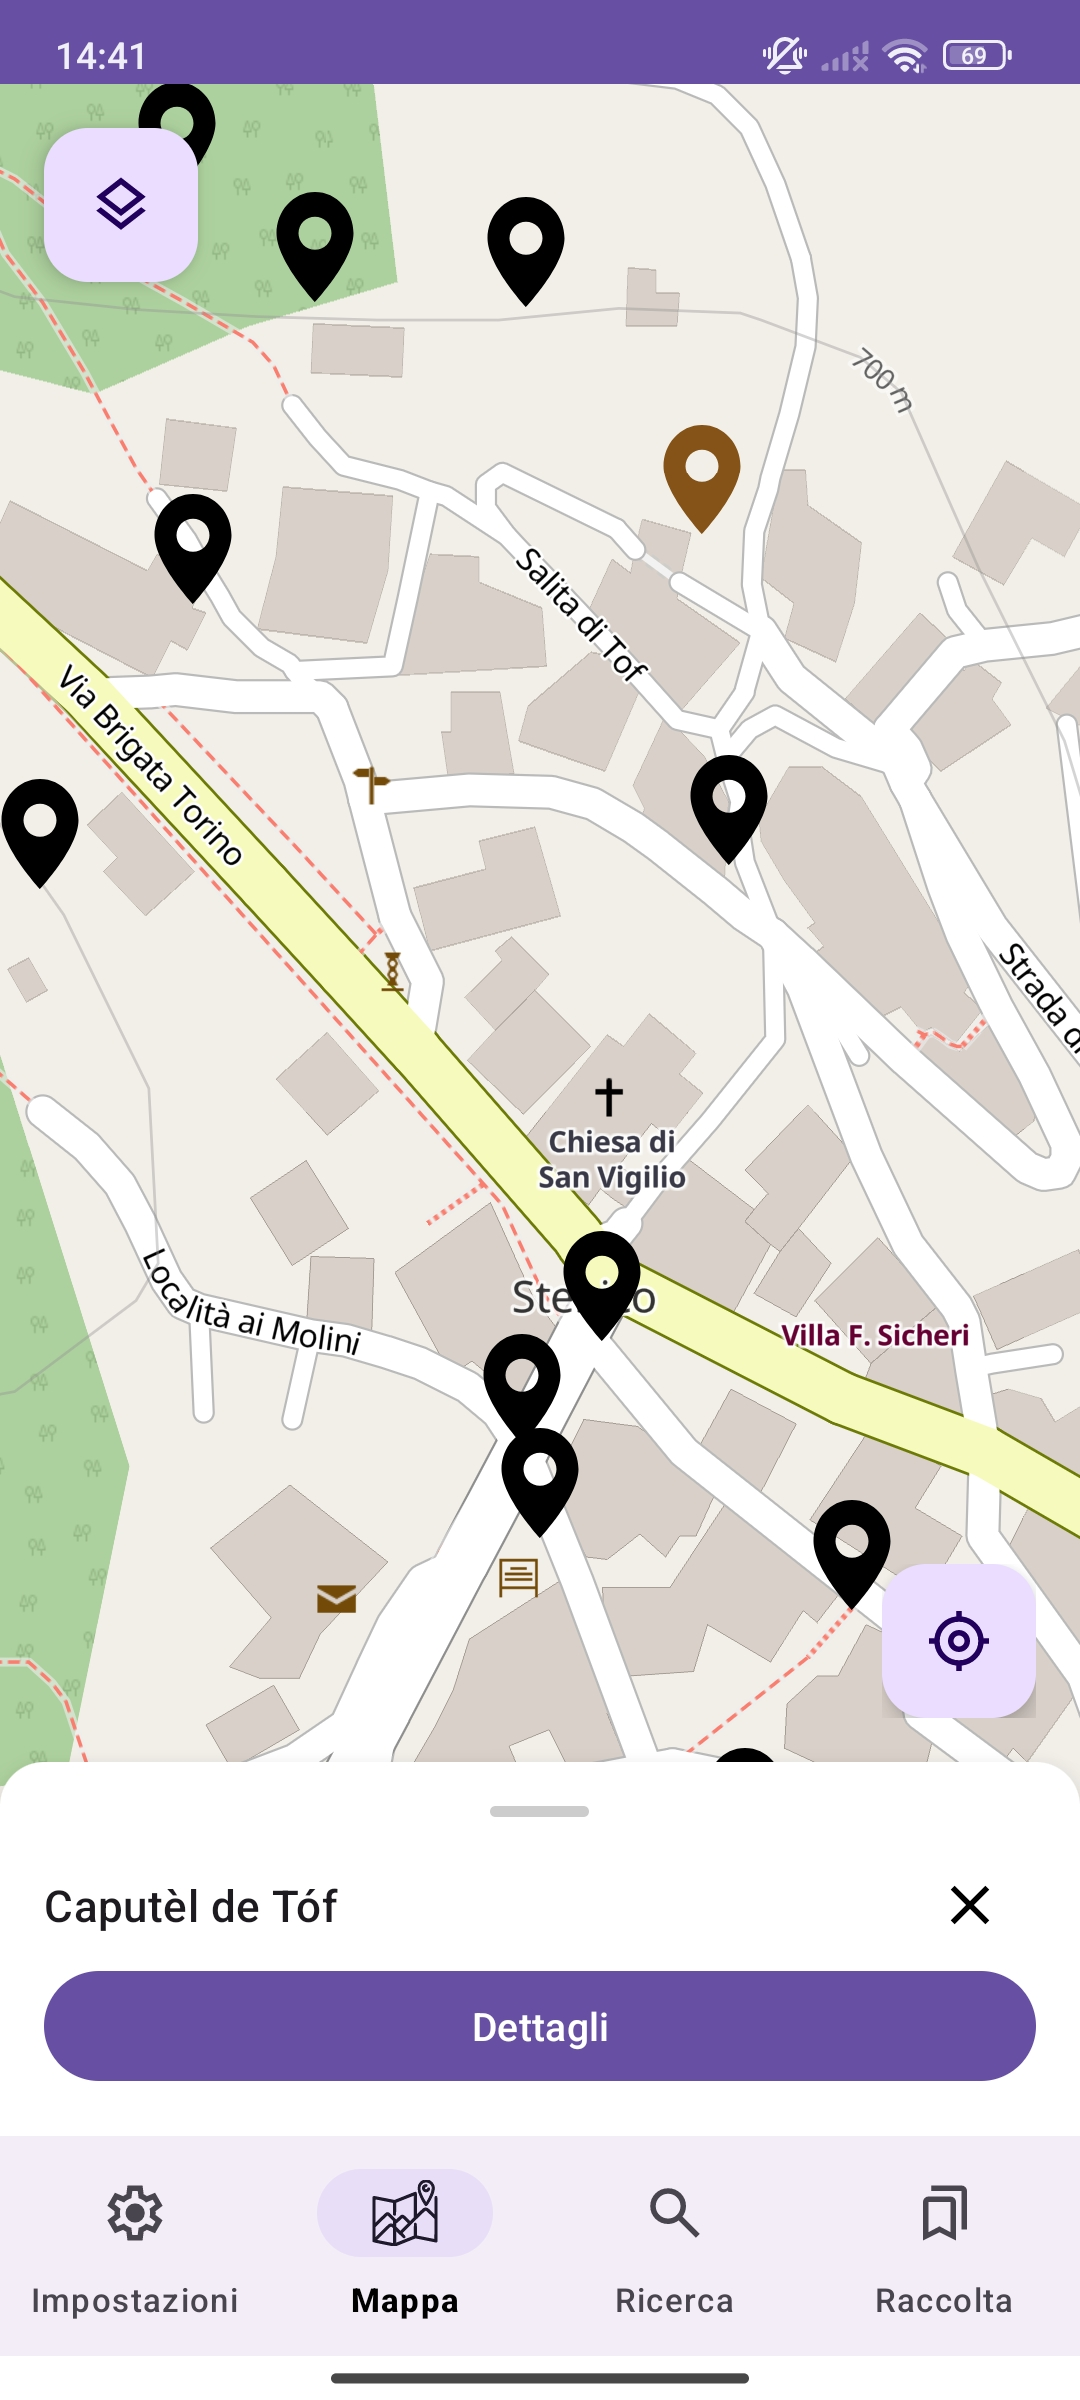
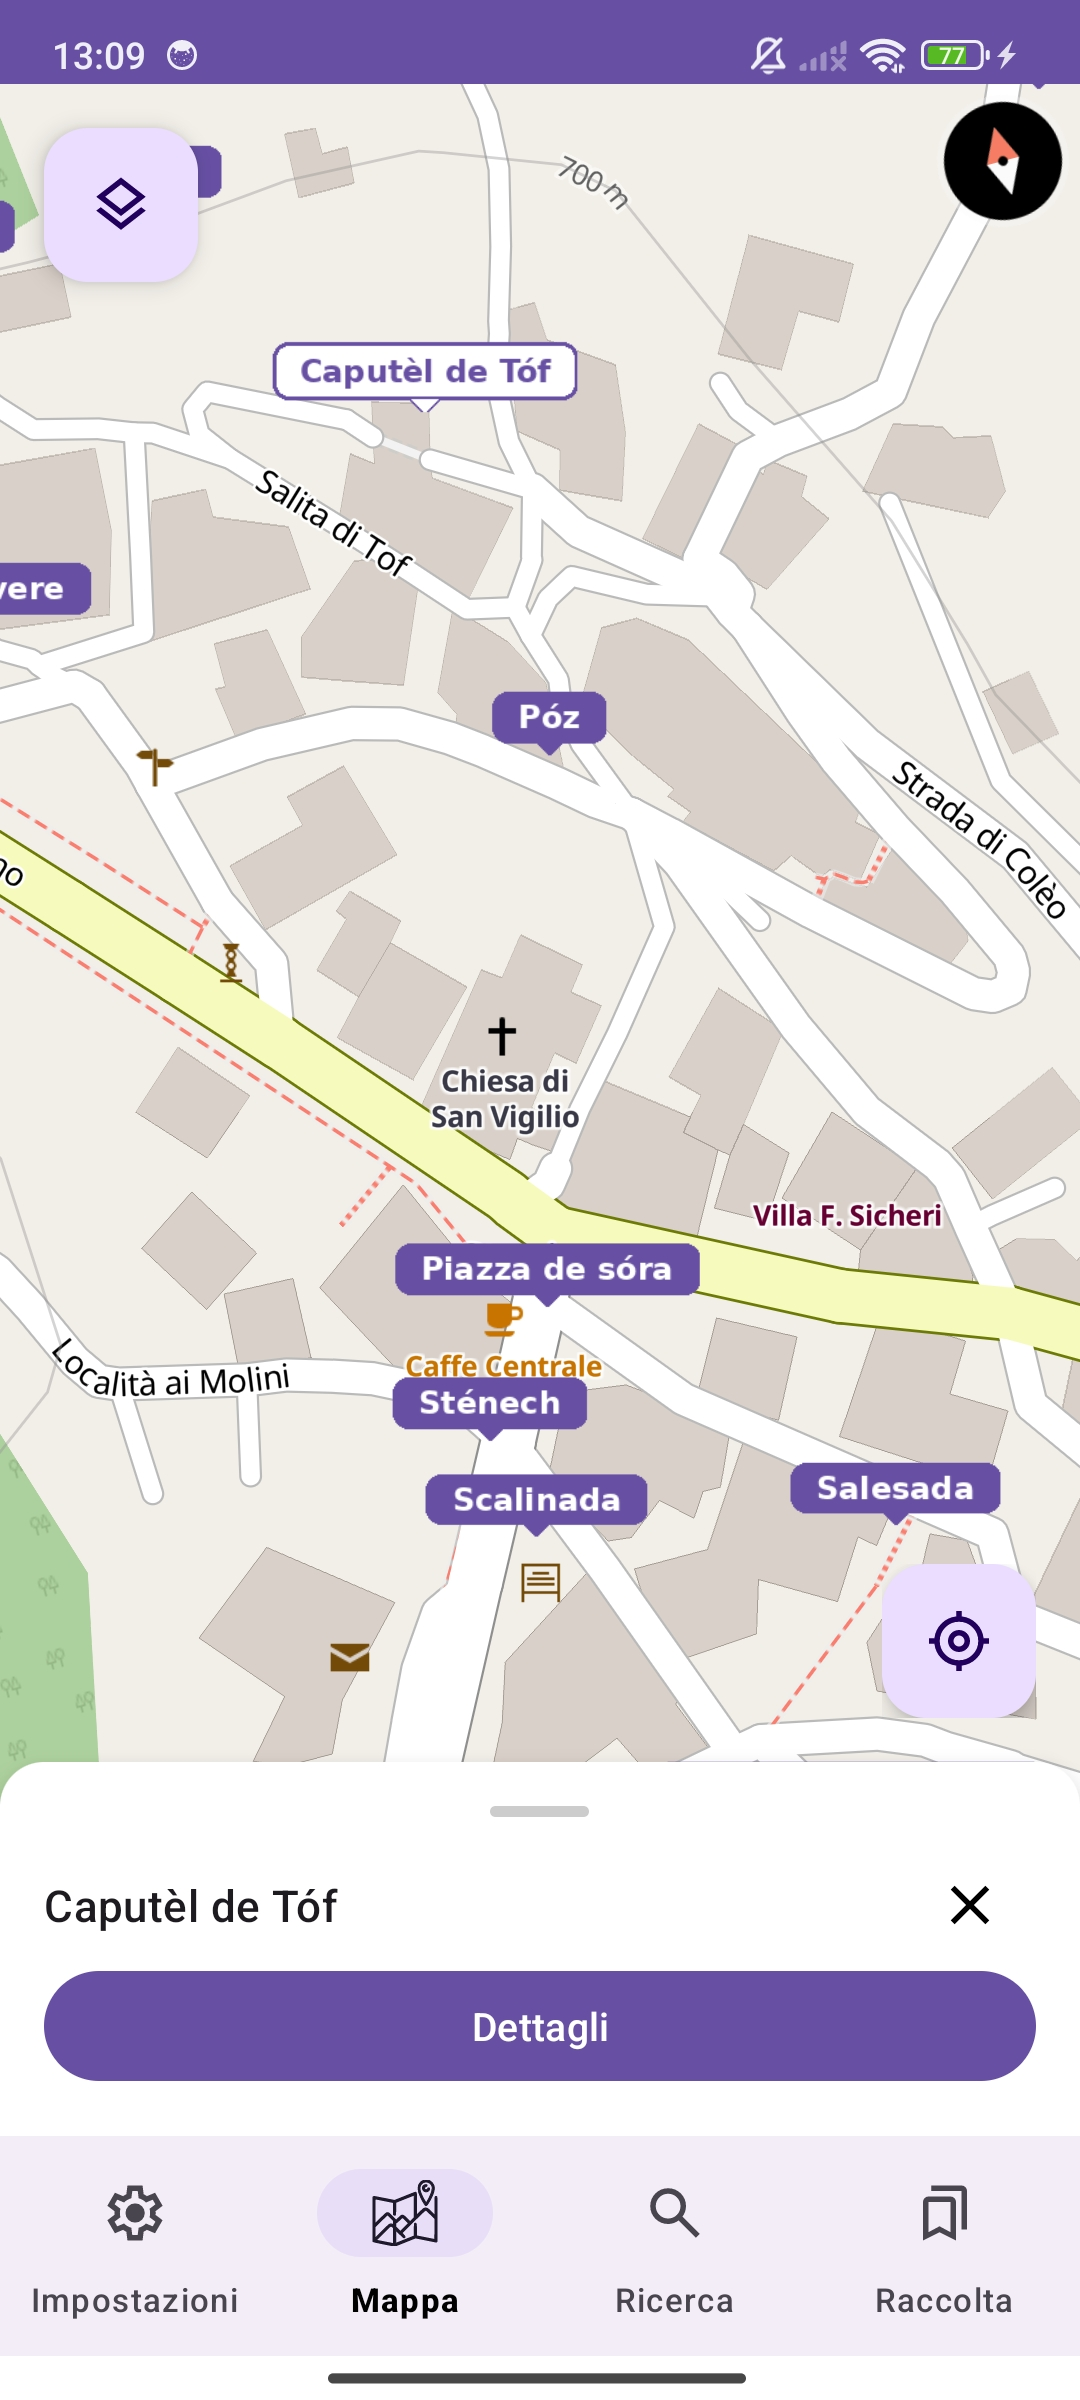
Update README.md

diff --git a/README.md b/README.md
@@ -80,7 +80,7 @@ This app is a hobby project, built for personal use. It is not a finished produc
 - **Export** functionality for bookmarks, search results, and individual toponyms in multiple formats (PDF, GPX, GeoJSON and more)
 - Basic **GPS localization** to display the user’s current position on the map
 - **Offline** support for vector maps, satellite imagery, and toponym data
-- **Settings** page to manage downloaded satellite tiles and view app info
+- **Settings** page to manage downloaded satellite tiles, map style preferences and app info
 
 ### Screenshots
 
